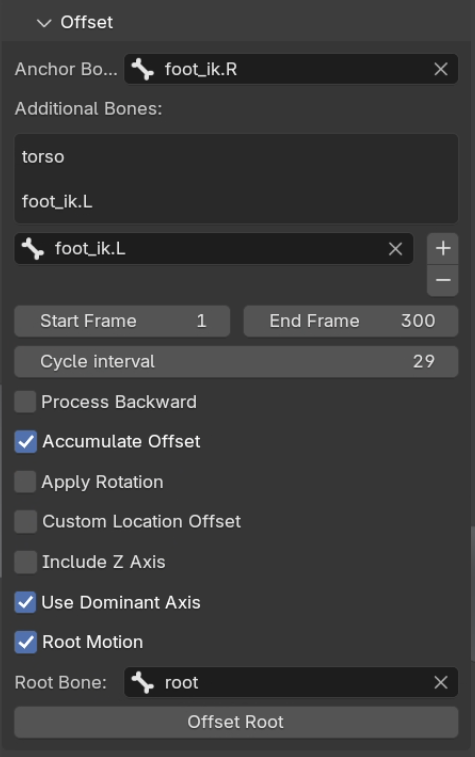
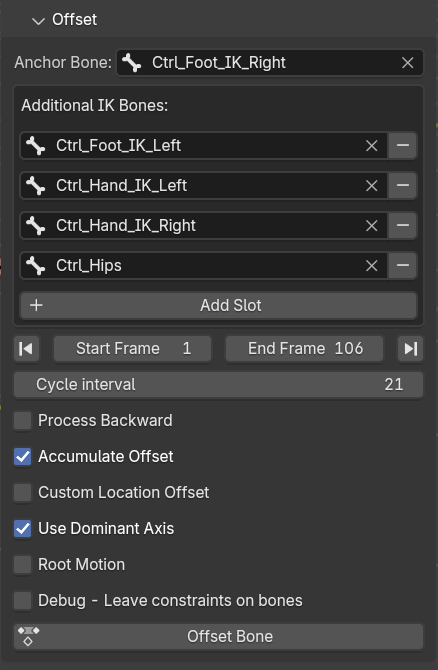
v1.2.0

diff --git a/documents/usage.md b/documents/usage.md
@@ -1,10 +1,19 @@
 # Foot-Work Blender Add-on Usage
+
+>updated for v1.2.0
+
 Find the Foot-Work add-on in Animation tab in property panel (N panel)  
-The first thing you see is the armature selection. Select the appropriate rig before continue.
+The first thing you see is the armature selection. Select your character rig and the other two options will appear, allowing you to set forward axis and root bone.
+
 
 ![footworkUI](images/footworkUI_001.png)
 
-Foot-Work tools are not dependent on each other, but certain operations are destructive, and may need to be done orderly to get correct result. For example, you cannot apply ground snapping or turning before offsetting the rig, because it will mess up the offset calculation.
+The Global Forward Axis is the global axis which your character is facing.  
+In this example the character is facing -Y
+
+![forward axis](images/global_axis.png)
+
+>Foot-Work tools are not dependent on each other, but certain operations are destructive, and may need to be done orderly to get correct result. For example, you cannot apply ground snapping or turning before offsetting the rig, because it will mess up the offset calculation.
 
 ## Stride
 Stride tool will adjust the distance of a walk cycle
@@ -13,18 +22,45 @@ Stride tool will adjust the distance of a walk cycle
 
 * Anchor bone. This bone will be used to calculate the distance the walk cycle can travel in one loop.
 
-* Addition bones are other IK bones that needed to move the whole aramture. Click + to add the selected bone to the list. If you want to remove one from the list, You should browse for it and click -
+* Addition bones are other IK bones that needed to move the whole armature. Click **'+ Add Slot'** to add more slot to the list, and select any IK bones. The list is shared between footwork tools.
+
+    >There might be times when you have duplicates in the list, the script does its best to just ignore the duplicates. For example, in this sceenshot above, you can see The right foot bone is specified in both anchor bone and addition bones, this should not raise any error, though. But in some cases, you might encounter problems, so be sure to check them to avoid unexpected result.
 
 * Stride distance is the final distance you want it to be. If Use percentage is not activate, this value represent the actual distance in Blender unit. Otherwise, you can specify percentage of original distance here.
 
 * Start-End frame determine the frames which you want to adjust.
+    
+    The small buttons on the left and right are for using the first and the last frame of the current action, not the current timeline range.
 
 * Cycle interval is the number of frames in one loop.
 
+    If you don't want to count frames, you can enter (first frame of the second loop - first frame of  the first loop). for example : 30-1
+
+* Calculate Current Stride Distance will fill in the **Stride Distance** box with current value, giving you percentage to adjust it.
+
 When all option is satisfied, you can click Apply Stride to adjust distance.
 
+
+## Root Motion
+This tool will convert locomotion mode between In-Place and Root Motion.
+
+In a single cycle, if the torso appears to be static relative to root,  
+the root bone need to be moved in order to make the character moving forward, it's in In-Place mode.  
+
+If the root bone is static, and the torso making the character move forward, then it's in Root Motion mode. This mode is often used in modern games to avoid foot sliding.
+
+![Root Motion UI](images/footworkUI_006.png)
+
+The options are straight forward. You can convert from In-Place to Root Motion by clicking the buttons, and vice versa.
+
+But Foot-Work cannot automatically determine which mode the rig is currently in. So you need to pick the button wisely. 
+
+This tool can convert modes back and forth without any issues.
+
+
 ## Offset
-This tool is for offsetting the rig at specific frame while maintaining anchor bone location.  
+This tool is for offseting the rig at specific frame while maintaining anchor bone location.  
+Making your character appears to be moving forward.  
 
 ![Offset UI](images/footworkUI_003.png)
 
@@ -35,21 +71,18 @@ For the Start Frame, it's usually the first frame of the second loop. If you spe
 
 * Process Backward will calculate offset from the End Frame back to Start Frame
 
-* Accumulate Offset will recalculate offset once a new loop begins, making continuous motion through many loops.
-
-* Apply Rotation will calculate the rotation of the anchor bone. It's generally not applicable for walk cycle, but could help fix incontinuity of some bones.
+* Accumulate Offset will recalculate offset once a new loop begins, making continuous motion through many loops.  
+The new loop is determined by **Cycle Interval** value, so make sure it is correct or you will get weird result.
 
 * Custom Location Offset - When checked,this option bypass the offset calculation and shows the custom offset input in X, Y and Z axis. This is useful when you want to move the rig elsewhere.
 
-* Include Z Axis will offset the Z axis as well. Generally not a good idea to enable this for walk cycle as there maybe slight difference in height between start and end frame, this option will make the rig move up or down from ground plane.
-
 * Use Dominant Axis will offset only one axis that dominates the movement. This option is useful for walk cycle, as the direction of movement will not change.
 
-* Root Motion, when enabled, will show a root bone selection box. This option will offset the root bone instead of other IK bones in the rig.
+* Include Z Axis will only available when Dominant Axis is not enabled. This option allows offseting the Z axis as well. Generally not a good idea to enable this for walk cycle as there maybe slight difference in height between start and end frame, this option will make the rig move up or down from ground plane.
+
+* Root Motion, This option will offset the root bone instead of other IK bones in the rig.
 
 The button Offset Bone or Offset Root will change its label according to the current mode of operation.  
-
-[Video](https://github.com/boyleo/foot-work-documents/blob/main/documents/images/offset.webm)
 
 ## Turn
 This tool is not actually turning your charactor, but rather, it will add a Pivot Empty at certain location and add constraints to IK bones so that you can rotate the rig with the Empty.
@@ -58,22 +91,25 @@ This tool is not actually turning your charactor, but rather, it will add a Pivo
 
 * To work with this tool, you should specify the desired bones. These bones are used to for location where the Pivot Empty will be created.
 
-You don't need to specify the one that you don't need.
+    The little checkbox for each bone determines if this bone is needed to move the character, If it's not the required bone, you should uncheck it.
 
-* Scrub to the frame you want to start turning, then add turning pivot at desired location by clicking the one of the four buttons.
+![Turn Pivot](images/footwork_turn.png) 
+
+
+* Scrub to the frame you want to start turning, then add turning pivot at desired bone location.
 
 A Pivot Empty will be created and keyframed at the current frame. All Pivots will be organized in a collection.
 
 * Scrub to the frame when turning is complete, rotate the Pivot, which in turn rotates the rig, and add keyframe to the Empty.
 
-Now your character will turn at specific frame.
+Now your character will turn at specific frames.
 
-Please Note that this tool leaves constraints on your rig, so it best to work your way from first step toward the last sequencially.
+Please Note that this tool leaves bone constraints on your rig, so it best to work your way from first step toward the last sequencially.
 
-When you are done, you can bake the pose and delete the Pivot Collection.
+When you are done, you can bake the pose, delete the Pivot Collection, and delete the redundant keyframes on  the rig.
 
 ## Ground
-This tool will snap the character to the ground object.
+This tool will snap the character onto ground object.
 
 ![Ground UI](images/footworkUI_005.png)
 
@@ -81,66 +117,67 @@ There are 2 boxes to select objects. The Reference Object is the 'current ground
 
 The Ground Object is the ground you want to snap the character to. When this box is empty, it also assumes a zero plane.
 
+The little arrow buttons are for quickly swapping these two boxes.
+
 When your locomotion cycle is on zero plane, you can just specify the ground object, frames and and each IK bones, then click Snap to Ground.
 
 When you want to change the ground object, change to Reference object to the current ground object, and put the new ground object in Ground Object box. or just leave it empty, to bring the character back to zero plane.
 
-There's one Advance option called Raycast Distance. This is the starting point of the raycast in  global Z axis to find ground object below this point. Must be higher than ground object height or the raycast will fail to find the ground.
+There's one Advance option called Raycast Distance. This is the starting point of the raycast in global Z axis to find ground object below this point. Must be higher than ground object height or the raycast will fail to find the ground.
 
-
-## Root Motion
-This tool will convert locomotion between In-Place and Root Motion.
-
-![Root Motion UI](images/footworkUI_006.png)
-
-The options are straight forward. You can convert from In-Place to Root Motion by clicking the buttons, and vice versa.
-
-But it cannot automatically determine which mode the rig is currently in. So you need to pick the button wisely. 
-
-In a single cycle, if the root bone need to be moved to make the character moving forward, it's in In-Place mode. If the root bone is static while the character is moving forward, then it's in Root Motion mode.
-
-This tool can convert modes back and forth without any issues.
-
-## Curve
-This tool will let your character travel along curve without (or minimal) foot slide. It will calculate stride distance and map the character to the curve base on this distance. So your character can walk with different speed and it will move along the curve accordingly, even if there are forward and backward motions in the sequence.
-
-**Curve type should be 2D**, to avoid character 'twisting' around the curve.
-
-![Curve UI](images/footworkUI_007.png)
-
-To use this tool, the locomotion animation must be In-Place mode, as this tool will only add constraint to root bone and adjust speed based on stride distance.
-
-Please note that the curve's **first control point should be exactly at root bone location** to avoid unexpected result.
-
-The options are self explanatory. Once you click Constraint to Curve, it will add a constraint to root bone. 
-
-If you want to revert the operation, **go back to the first frame** before removing the constraint from root bone. Open the Dope Sheet you will see that one location channel of the root bone has been deactivated, just activate it to get back the straight locomotion.
-
-If you are satisfied with the result, you can bake pose into current action to make it permanent.
+![raycast](images/raycast_distance.png)
 
 ## Path Finding
-The path finding tool use A* path finding algorithm to find shortest path between 2 locations. You need to specify the root bone to be used as start location.  
+The path finding tool use A* path finding algorithm to find shortest path between 2 locations, and create a curve for your character to follow. It will use the root bone as starting location.  
 
-![path finding](images/pathfinding.png)
+    If you encounter error about context is incorrect, you should make sure the armature is the active object.
 
-* Go back to frame 1, or the begining of the locomotion before clicking Start. this button will add an empty at the location of the root bone.
+![path finding](images/footworkUI_008.png)
+
+It is good idea to work from top view. as this tool is finding 2D path, not accounting for height.
+
+* Go back to frame 1, or the begining of the locomotion before clicking Start. this button will add an empty at the exact location of the root bone.
 
 * Add other helper objects such as goal, obstacles, and boundary.
-
-* scale the boundary to barely cover the whole area you want your character to move.
 
 * Move the goal to the final location
 
 * Duplicate and rearrange obstacles as you pleased. You can adjust size of obstacle empty, but do not scale it.
 
+* You may add Waypoint to make a detour. Waypoints created will be numbered. you should not duplicate them.
+
+* scale the boundary to barely cover the whole area you want your character to move.
+
+![pathfinding](images/footwork_pathfinding.png)
+
 * Grid resolution will subdivide the boundary space by this value, to get the grid to calculate obstacle avoidance. lower value will be faster to calculate but may miss some smaller obstacles.
+
+* Smooth Iteration and Simplify Factor will determine the smoothness of resulting curve
 
 * Show debug grid will create a grid for debugging purpose.  this grid has no other use and can be deleted safely.
 
-* When you click Create Path, the Path Length will tell you how far your character should move in the forward axis for it to move to the end of the path. you should add or remove cycles or adjust stride distance to match this value, so that the character can travel the whole length of the path.
+    When you click Create Path, the Path Length will tell you how far your character should move in the forward axis for it to move to the end of the path. you should add or remove cycles or adjust stride distance to match this value, so that the character can travel the whole length of the path.
+
+* Adjust Stride will adjust Stride parameters to match the path length. You should make the cycle repeat so that total distance is closest to the calculated path length then use this button to adjust the minor differences.
+
+    >You need to manually click the Apply Stride in Stride tool after this.
 
 The path finding tool does not constraint your character to the path, it merely create the shortest curve path.
 
-Obstacles will be in their own collection, when your done with creating path, you can safely delete the collection, the start and goal objects.
+Obstacles and Waypoints will be in their own collection, when your done with creating path, you can safely delete the collections, the start and goal objects.
 
+## Curve
+This tool will let your character travel along curve without (or minimal) foot slide. It will calculate stride distance and keyframe the offset on the curve for the character to move at correct speed.
+
+**Curve type should be 2D**, to avoid character 'twisting' around the curve.
+
+![Curve UI](images/footworkUI_007.png)
+
+To use this tool, the locomotion animation should be In-Place mode.
+
+Please note that the curve's **first control point should be exactly at root bone location** to avoid unexpected result. If you use the path finding tool to create the curve, this issue should be correctly handled.
+
+The options are self explanatory. Once you click Constraint to Curve, it will add a constraint to root bone. 
+
+>This operation is destructive, the other tools will not function correctly after you applying curve. So save first and **keep your backup** if you are unsure.
 

diff --git a/README.md b/README.md
@@ -49,10 +49,9 @@ move character along curve preserving stride distance
    The armature should have Root Bone, Torso Bone, optional IK Feet and Toes.  
    A walk cycle with only FK Bones does not work. If you have animated with FK bones, try to convert it IK bones first.
    
- - **Bones Axis** - Currently the IK bones' axis should be consistent. Take Rigify for example,
+ - ~~**Bones Axis** - Currently the IK bones' axis should be consistent. Take Rigify for example,
    where -Y points forward and Z points upward, these are consistent from root to torso and feet.
-   Some rig has different orientation between these bones. Foot-Work **cannot** work in this situation.
-   I'm working find a solution.
+   Some rig has different orientation between these bones. Foot-Work **cannot** work in this situation.~~ The issue has been addressed in v1.2.0
   
  - **Animation** - Foot-Work Addon is **NOT** a walk cycle generator.  
    You should have your walk cycle animation ready before using this addon.
